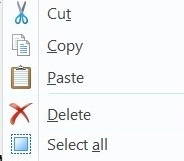
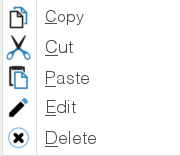
Change menu

diff --git a/Actions/RightClick.cpp b/Actions/RightClick.cpp
@@ -40,6 +40,7 @@ bool RightClick::ReadActionParameters(image* img) {
 		MenuRectangle.y2 = y + UI.RightClickMenuWidth;
 	/*	s = to_string(x) + "    " + to_string(y);
 		pOut->PrintMsg(s);*/
+		C->Draw(pOut, true);
 		pIn->WaitSelectionPoint(x, y); //New Member Function to wait for Selection Point.
 		//Check if the new Point is in the Menu Bar or Not
 		if (x > MenuRectangle.x1 && x < MenuRectangle.x2) {
@@ -128,6 +129,8 @@ void RightClick::Execute() {
 		default:
 			break;
 		}
+		C->Draw(pOut, false);
+
 	}
 }
 void RightClick::Undo()

diff --git a/Actions/AddCONNECTION.cpp b/Actions/AddCONNECTION.cpp
@@ -60,7 +60,7 @@ void AddConnection::Execute()
 
 	if (inputComponent == NULL || outputComponent == NULL || inputComponent == outputComponent || dynamic_cast<SWITCH*> (inputComponent) || dynamic_cast<LED*> (outputComponent))
 	{
-		pManager->GetOutput()->PrintMsg("Invalid Connection");
+		pManager->GetOutput()->PrintMsg("Invalid Connection", UI.ErrorColor);
 	}
 	else{
 		numOfInputs = inputComponent->getNumOfInputs();
